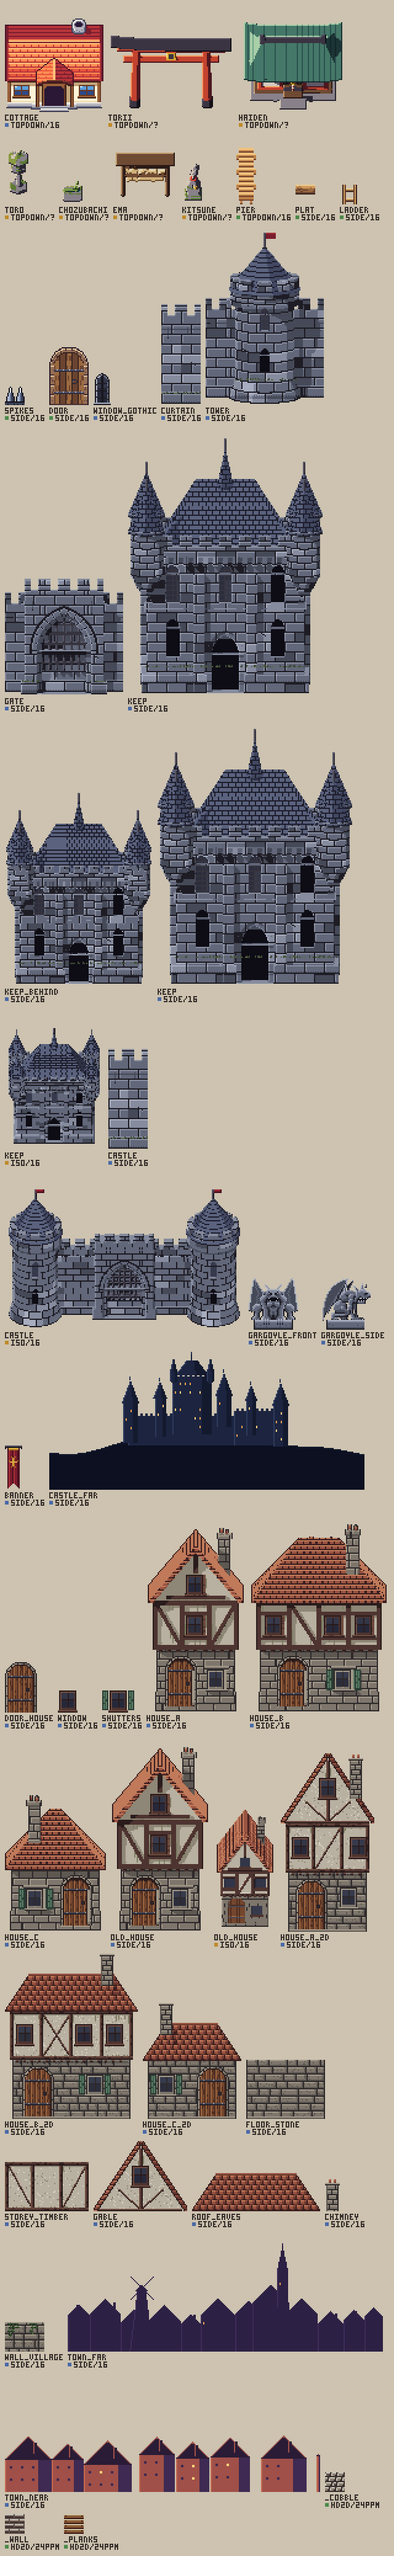
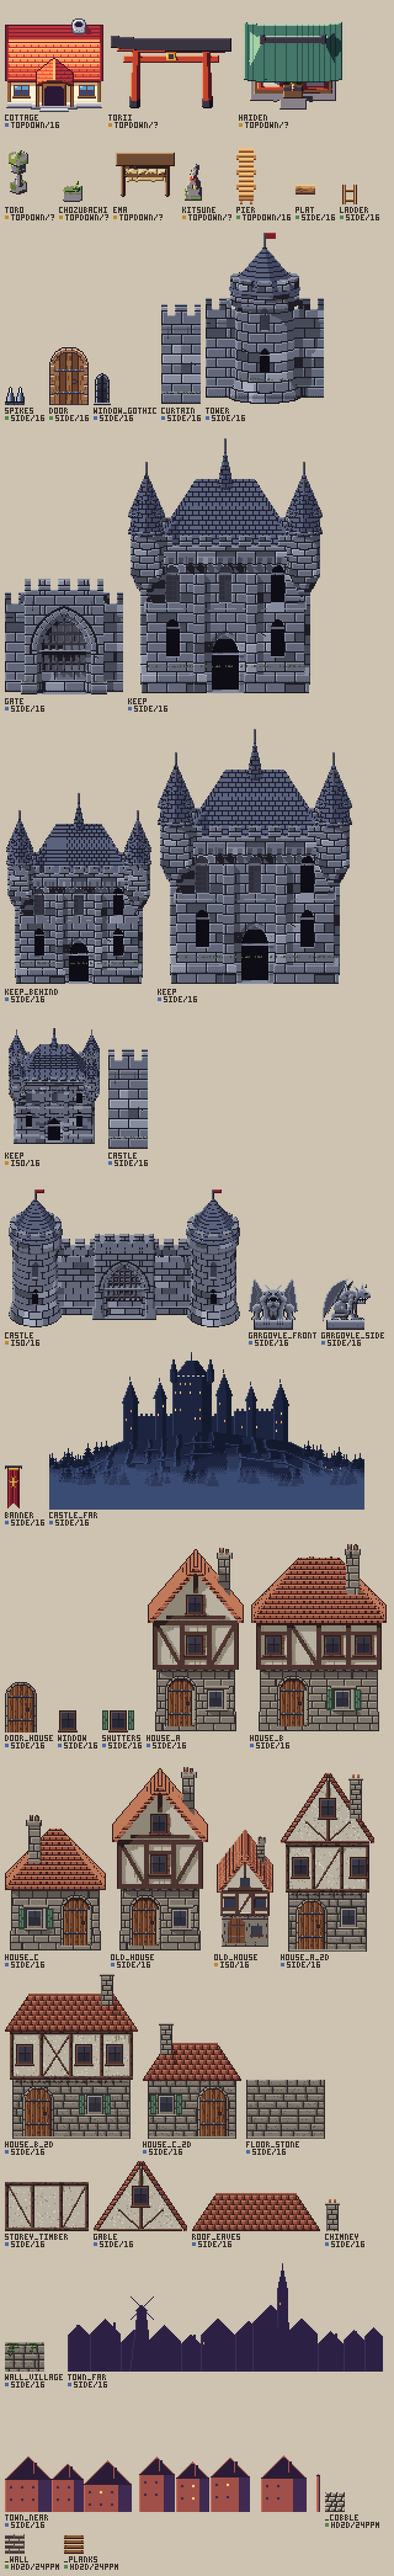
The castle's night backdrop with depth: a crag, a tree line, mist
castle_far's hill was one flat fill of its darkest color, and the near hills at night came to nearly its value, so the band between them read as a void. Now the castle stands on a crag of buttresses (lit on the moon's side, shaded on the other) falling to rolling land, a line of pines along its slopes, mist at its foot growing lighter downward by an ordered dither (at night the farther is the lighter: the air), three lit windows of a hamlet. 256 x 128, the same top, grown downward so no camera height shows its foot. side.hills unchanged.

Claude-Session: https://claude.ai/code/session_01XVk6RMu9x1Nynyocrx5tTF

diff --git a/lib/architecture/side_castle.px.js b/lib/architecture/side_castle.px.js
@@ -8,7 +8,7 @@
 // every 6), gothic windows (window_gothic, a lancet: window_gothic_lit lights up at dusk and night), the keep the
 // walls guard (make3d.keep; keep, and keep_behind for a layer of its own), gargoyles on their blocks for the
 // wall-walk behind the parapet (gargoyle_front, gargoyle_side), a banner with a gold charge and a swallowtail foot, and the night's backdrop: the
-// castle on its hill in silhouette with a few lit windows (castle_far, a strip that wraps). No line: the stone's
+// castle on its crag, a tree line and mist at its foot, a few lit windows (castle_far, a strip that wraps). No line: the stone's
 // darkest at its edges, the joints near-black at night. Drawn in daylight colors; castle.NIGHT (and castle.DUSK) map
 // each to its time's (a layer's `swap`; castle.NIGHT_BEHIND a step darker for a plane further back): at night the
 // stone a blue-grey V 10-55 under its moonlit tops, the lit glass warm. For any scene:
@@ -402,29 +402,73 @@ sprite("banner", { w: 14, h: 36, pivot: [7, 0] }, (c) => {
 })
 card("banner", { is: "a castle's banner, 14 x 36: red cloth in folds from an iron rod, a gold border and a gold cross, its foot a swallowtail; its pivot the rod's middle", cells: { "side/16": "✎" } })
 // ---------------------------------------------------------------- the night's backdrop
-// castle_far, 256 x 112, wraps: the castle on its hill far off in silhouette (the hill V 10, the castle V 25 a step
-// over it), each mass a volume under the moon: its left edge a pixel lighter where the moon catches it, a tower's
-// right two fifths and its cone's right half a step darker as they turn away, the keep's right side in shade: the
-// keep the highest mass, as the castle's (a block under crenellations, a hipped roof and its flèche, a bartizan under
-// a needle spire at each top corner), round towers each under a cone and a spire, curtain walls with
-// merlons between them, windows lit 1 x 2 in a few rows. Clean shapes: walls straight, cones symmetric. Its own
-// colors (a night's).
-pal({ 1: "#0c1020", 2: "#141a2e", 3: "#1c2440", 4: "#2e3a5c", 5: "#e8a050", 6: "#ffd27a" })
+// castle_far, 256 x 128, wraps: the castle on its crag far off, then the land and the mist at its foot, the farther
+// the lighter (numbers only: Symphony of the Night's far range one mid value in 3 tones, its ridges lit on one side;
+// Ecclesia's far land lighter at the horizon, V +10-15; a dusk town's far planes V +8-12 at their foot, toward the
+// sky's hue). The castle (V 25, its left edges moonlit V 36, its turned faces V 18) on a crag (a profile): a
+// plateau under the walls, the keep on its summit, cliffs falling to rolling land at the strip's sides; spurs down
+// it, each crest's left face to the moon (V 25, its rim V 36) and its right face turned away (V 18), more of it lit
+// on the left flank; two broken ledges lit on top, dark under. A tree line of pines (6-13 tall, tiered, the moon's
+// side a pixel lighter) on the lower slopes and the land, against a first mist; clumps of taller pines nearer, their
+// feet in the mist lying lowest. The mist lifts each tone a step along 2 3 4 8 by an ordered dither (bayer: the air
+// is its cause), its top rolling, so the near hills (V 20-27) stand dark against it (V 36-45). Windows lit 1 x 2 in
+// a few rows; a hamlet's three lights at the right foot. Its own colors (a night's).
+pal({ 2: "#141a2e", 3: "#1c2440", 4: "#2e3a5c", 5: "#e8a050", 6: "#ffd27a", 8: "#3a4c74" })
 const FAR = [   // [kind, x, w, top]: walls first, then the keep, then the towers before it
   ["wall", 64, 128, 52], ["wall", 150, 40, 48], ["keep", 100, 32, 20],
   ["tower", 60, 12, 42], ["tower", 86, 9, 38], ["tower", 136, 12, 36], ["tower", 160, 8, 40], ["tower", 182, 12, 44],
 ]
-sprite("castle_far", { w: 256, h: 112, wrap: "x" }, (c) => {
-  const hill = (x) => Math.round(82 - 22 * Math.exp(-(((x - 128) / 64) ** 2)) + 2 * Math.sin(x / 13))
-  for (let x = 0; x < 256; x++) for (let y = hill(x); y < 112; y++) c.px(x, y, y === hill(x) ? "2" : "1")
+// the crag's top: a plateau under the walls, the keep on its summit, cliffs down to the land at the sides
+const CRAG = profile([0, 90, 10, 88, 20, 89, 28, 86, 36, 83, 42, 79, 48, 77, 54, 74, 60, 72, 84, 70, 102, 67, 116, 64,
+  134, 64, 150, 66, 170, 69, 190, 71, 198, 74, 206, 78, 214, 81, 222, 85, 232, 87, 244, 89, 256, 90])
+// its spurs, one every ~14 px: a crest from the top down, out to its side a little (down-left on the left flank,
+// down-right on the right), stepping a pixel aside every 4 rows, each running out after 10-40 rows
+const SPURS = Array.from({ length: 16 }, (_, i) => {
+  const x0 = 20 + i * 14 + Math.floor(hash(i, 1, 74) * 8)
+  return { i, x0, s: ((x0 - 124) / 124) * 0.45 + (hash(i, 2, 74) - 0.5) * 0.2, d0: hash(i, 3, 74) < 0.35 ? 8 : 0, L: 10 + Math.floor(hash(i, 4, 74) * 30) }
+})
+const crests = (y) => SPURS.flatMap(({ i, x0, s, d0, L }) => {
+  const d = y - CRAG(x0) - d0
+  if (d <= 0 || d > L) return []
+  const xc = x0 + d * s + Math.round((hash(i, Math.floor(d / 4), 75) - 0.5) * 2.5)
+  return [xc - 256, xc, xc + 256]
+}).sort((a, b) => a - b)
+// ledges: two terraces following the top, 9 and 18 rows under it, broken
+const ledge = (x, y) => { const d = y - CRAG(x); return (d === 9 || d === 18) && hash(Math.floor(x / 11), d, 76) < 0.55 }
+// mist: each tone lifted along 2 3 4 8, a step every `every` rows down from `from` (its top rolling, at most `most`
+// steps), by an ordered dither
+const TONES = "2348"
+const roll = (x) => 2.5 * Math.sin((x / 256) * 6 * Math.PI) + 1.5 * Math.sin((x / 256) * 14 * Math.PI + 1)
+const lift = (c, from, every, most) => { for (let y = from - 4; y < 128; y++) for (let x = 0; x < 256; x++) {
+  const i = TONES.indexOf(c.key(x, y)), n = Math.min(most, Math.floor((y - from - roll(x)) / every + bayer(x, y)))
+  if (i >= 0 && n > 0) c.px(x, y, TONES[Math.min(3, i + n)])
+} }
+// a pine, its foot's middle at x, foot: tiered (its sides stepping in every third row), the moon's side a pixel lighter
+const pine = (c, x, foot, h) => { for (let r = 0; r < h; r++) {
+  const hw = Math.floor(r * 0.42) - (r % 3 === 0 && r > 2 ? 1 : 0)
+  for (let u = -hw; u <= hw; u++) c.px((x + u + 256) % 256, foot - h + r, u === -hw ? "3" : "2")
+} }
+sprite("castle_far", { w: 256, h: 128, wrap: "x" }, (c) => {
+  // the rock: between two spurs' crests, the face right of the left one turned away (2), the face left of the right
+  // one to the moon (3, its rim along the crest 4); more of it lit on the left flank; the top lit where it rises
+  for (let y = 0; y < 128; y++) {
+    const cr = crests(y)
+    for (let x = 0; x < 256; x++) {
+      if (y < CRAG(x)) continue
+      const b = cr.findIndex((xc) => xc > x), xB = b < 0 ? x + 99 : cr[b], xA = b > 0 ? cr[b - 1] : x - 99
+      const t = (x - xA) / (xB - xA)
+      c.px(x, y, y === CRAG(x) || ledge(x, y) ? (x < 124 || CRAG(x - 1) >= CRAG(x) ? "4" : "3") : ledge(x, y - 1) ? "2"
+        : t < (x < 124 ? 0.25 : 0.7) ? "2" : xB - x < 1.5 ? "4" : "3")
+    }
+  }
   for (const [kind, x0, w, top] of FAR) {
-    const foot = Math.max(...Array.from({ length: w }, (_, u) => hill(x0 + u))) + 1, mid = x0 + Math.floor(w / 2)
+    const mid = x0 + Math.floor(w / 2), sill = Math.min(...Array.from({ length: w }, (_, u) => CRAG(x0 + u)))
     for (let u = 0; u < w; u++) {
       const merlon = (kind === "wall" || kind === "keep") && u % 4 >= 2 ? 2 : 0
       // lit by the moon on its left: the moonlit edge, the face; a tower turns away into its shade over its right
       // two fifths, the keep shows its right side in shade, a wall stays one face
       const shade = kind === "tower" ? u >= w * 0.6 : kind === "keep" ? u >= w * 0.72 : false
-      for (let y = top - merlon; y < foot; y++) c.px(x0 + u, y, u === 0 ? "4" : shade ? "2" : "3")
+      for (let y = top - merlon; y <= CRAG(x0 + u); y++) c.px(x0 + u, y, u === 0 ? "4" : shade ? "2" : "3")
     }
     // a tower's cone and its spire, symmetric
     if (kind === "tower") {
@@ -444,9 +488,21 @@ sprite("castle_far", { w: 256, h: 112, wrap: "x" }, (c) => {
       }
     }
     // windows in rows: every 7 rows down, every 4 across, some lit
-    for (let y = top + 5; y < foot - 6; y += 7) for (let x = x0 + 2; x < x0 + w - 2; x += 4) if (hash(x, y, 33) < (kind === "wall" ? 0.12 : 0.35)) c.rect(x, y, 1, 2, hash(x, y, 34) < 0.5 ? "6" : "5")
+    for (let y = top + 5; y < sill - 5; y += 7) for (let x = x0 + 2; x < x0 + w - 2; x += 4) if (hash(x, y, 33) < (kind === "wall" ? 0.12 : 0.35)) c.rect(x, y, 1, 2, hash(x, y, 34) < 0.5 ? "6" : "5")
   }
+  // a first mist at the crag's foot, then the tree line against it: pines on the lower slopes and the land (not on
+  // the plateau), every 2-4 px, 6-13 tall, the moon's side a pixel lighter; a hamlet's three lights among them; then
+  // clumps of taller pines (9-16) nearer, at the near hills' foot, their tops out of the mist lying lowest
+  lift(c, 82, 5, 1)
+  for (let x = 0, i = 0; x < 256; x += 2 + Math.floor(hash(i, 1, 72) * 3), i++) {
+    if (CRAG(x) >= 78) pine(c, x, CRAG(x) + 1 + Math.floor(hash(i, 3, 72) * 6), 6 + Math.floor(hash(i, 2, 72) * 8))
+  }
+  for (const [x, y] of [[224, 93], [229, 95], [236, 94]]) c.px(x, y, "5")
+  for (let k = 0; k < 7; k++) for (let j = 0, n = 3 + Math.floor(hash(k, 1, 77) * 4); j < n; j++) {
+    pine(c, Math.floor(k * 37 + hash(k, 2, 77) * 12) + j * 4 + Math.floor(hash(k, j, 78) * 2), 106 + Math.floor(hash(k, j, 79) * 4), 9 + Math.floor(hash(k, j, 80) * 8))
+  }
+  lift(c, 94, 4, 2)
 })
-card("castle_far", { is: "the night's backdrop: the castle on its hill in silhouette far off, 256 x 112, wraps: its keep the highest (a hipped roof, a flèche, bartizans under needle spires), round towers under cones and spires, curtain walls, the left edge of each mass moonlit, windows lit in rows", cells: { "side/16": "✎" } })
+card("castle_far", { is: "the night's backdrop: the castle on its crag far off, 256 x 128, wraps: its keep the highest (a hipped roof, a flèche, bartizans under needle spires), round towers under cones and spires, curtain walls, the left edge of each mass moonlit, windows lit in rows; the crag in buttresses and ledges lit on the moon's side, falling to rolling land; a tree line of pines; mist lying low, lighter the lower, by an ordered dither", cells: { "side/16": "✎" } })
 Object.assign(castle, { DUSK, NIGHT, NIGHT_BEHIND, TIME, MATS, LIGHT })
 }

diff --git a/docs/fork-differences.md b/docs/fork-differences.md
@@ -1,7 +1,7 @@
 # Fork differences
 
 This fork, [augusto-scarvalho/claude-pxl](https://github.com/augusto-scarvalho/claude-pxl), is
-**489 commits ahead** of the original, [crsolver/claude-pxl](https://github.com/crsolver/claude-pxl),
+**490 commits ahead** of the original, [crsolver/claude-pxl](https://github.com/crsolver/claude-pxl),
 and none behind. The work spans October 16–27, 2026. Everything the original does still works; this
 page lists what the fork adds. Every commit is in
 [the comparison on GitHub](https://github.com/crsolver/claude-pxl/compare/main...augusto-scarvalho:claude-pxl:main).
